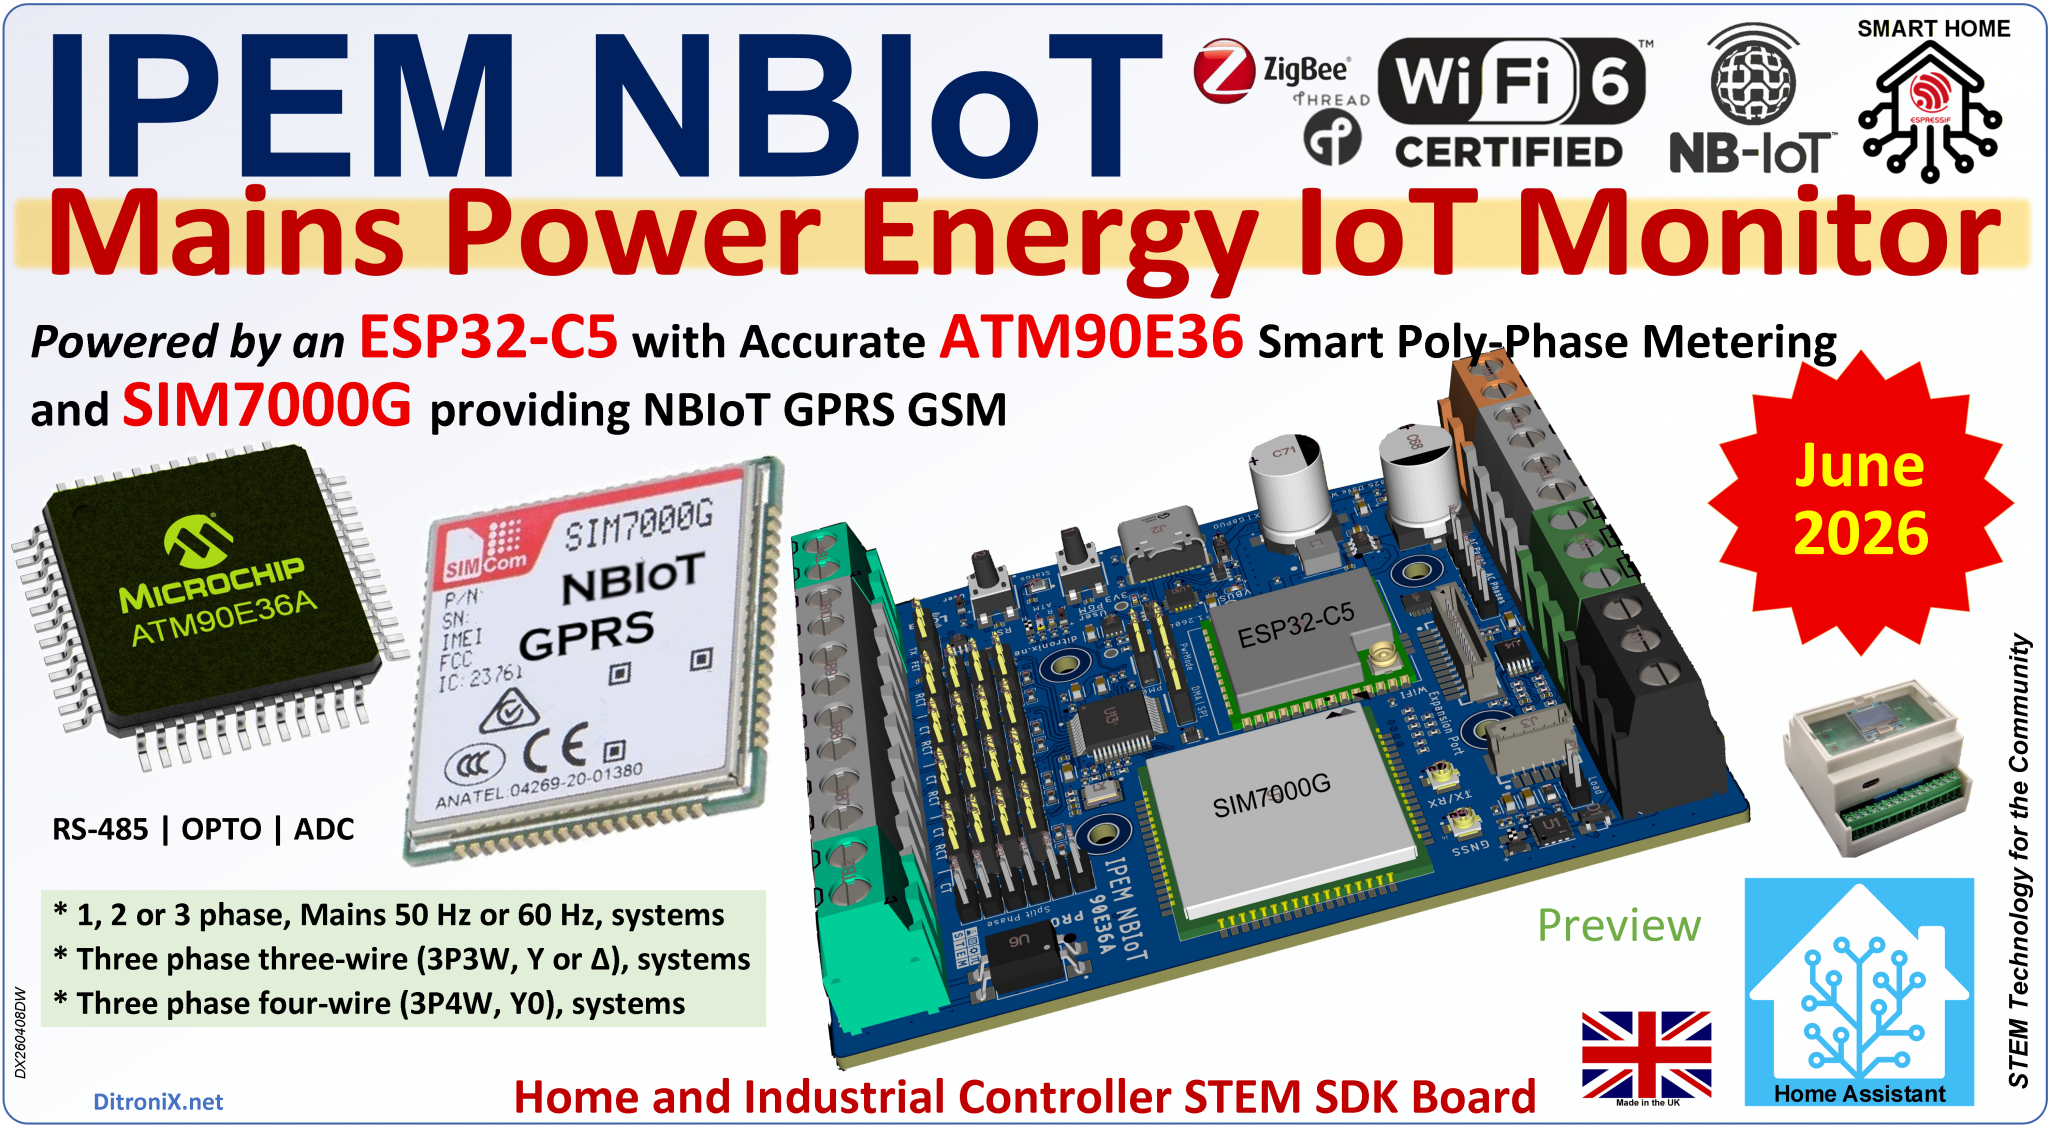
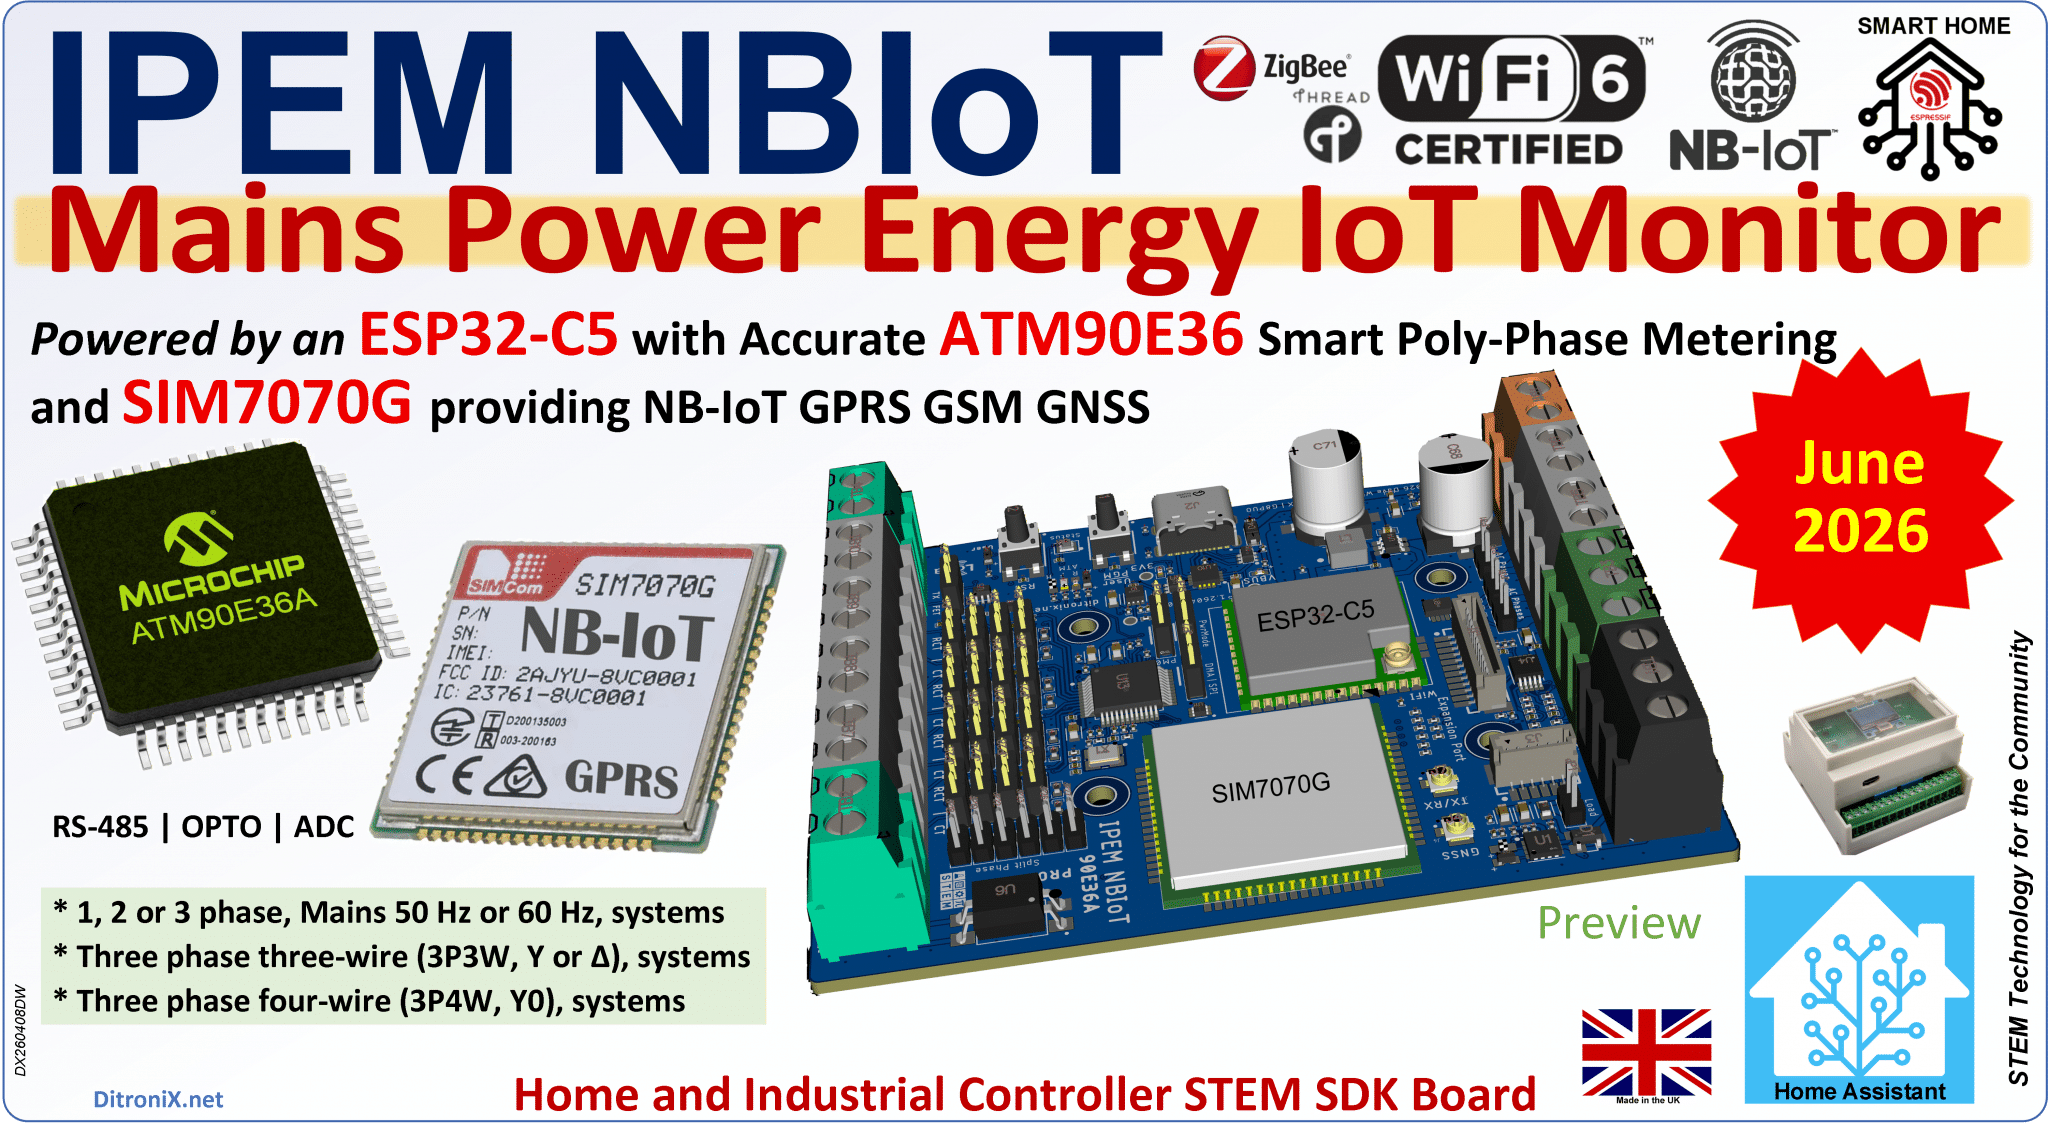
Updates

diff --git a/README.md b/README.md
@@ -1,21 +1,21 @@
 
-# IPEM NBIoT | ESP32C5 ATM90E36 SIM7000G GPRS IoT Mains Power Energy Monitor
+# IPEM NB-IoT | ESP32C5 ATM90E36 SIM7070G GPRS IoT Mains Power Energy Monitor
 
 **Supporting STEM Electronic Internet of Things & Home Automation Technology for Smart Energy Monitoring**
 
 Pre-Release Information
 
-[![DitroniX WiKi Pages](https://github.com/DitroniX/IPEM-NBIoT-ESP32C5-ATM90E36-SIM7000G-GPRS-IoT-Mains-Power-Energy-Monitor/blob/main/Datasheets%20and%20Information/GitHub%20WiKi.png?raw=true)](https://github.com/DitroniX/IPEM-NBIoT-ESP32C5-ATM90E36-SIM7000G-GPRS-IoT-Mains-Power-Energy-Monitor/wiki)
+[![DitroniX WiKi Pages](https://github.com/DitroniX/IPEM-NBIoT-ESP32C5-ATM90E36-SIM7070G-GPRS-IoT-Mains-Power-Energy-Monitor/blob/main/Datasheets%20and%20Information/GitHub%20WiKi.png?raw=true)](https://github.com/DitroniX/IPEM-NBIoT-ESP32C5-ATM90E36-SIM7070G-GPRS-IoT-Mains-Power-Energy-Monitor/wiki)
 
-[**For Latest Project Updates - Click Here**](https://github.com/DitroniX/IPEM-NBIoT-ESP32C5-ATM90E36-SIM7000G-GPRS-IoT-Mains-Power-Energy-Monitor?tab=readme-ov-file#updates)
+[**For Latest Project Updates - Click Here**](https://github.com/DitroniX/IPEM-NBIoT-ESP32C5-ATM90E36-SIM7070G-GPRS-IoT-Mains-Power-Energy-Monitor?tab=readme-ov-file#updates)
 
-![IPEM NBIoT Preview](https://github.com/DitroniX/IPEM-NBIoT-ESP32C5-ATM90E36-SIM7000G-GPRS-IoT-Mains-Power-Energy-Monitor/blob/main/Datasheets%20and%20Information/IPEM%20NBIoT-%20Overview.png)
+![IPEM NBIoT Preview](https://github.com/DitroniX/IPEM-NBIoT-ESP32C5-ATM90E36-SIM7070G-GPRS-IoT-Mains-Power-Energy-Monitor/blob/main/Datasheets%20and%20Information/IPEM%20NBIoT-%20Overview.png)
 
 ## Welcome to IPEM NB-IoT
 
 The new **IPEM NB-IoT** STEM board has been launched, with expected availability in June.
 
-**IPEM NB-IoT**  is a powerful ATM90E36 Smart Home and Industry Automation, [Mains Power Energy Monitor](https://github.com/DitroniX/IPEM-NBIoT-ESP32C5-ATM90E36-SIM7000G-GPRS-IoT-Mains-Power-Energy-Monitor/wiki/What-is-a-Power-Energy-Monitor%3F) Board, and Kit.
+**IPEM NB-IoT**  is a powerful ATM90E36 Smart Home and Industry Automation, [Mains Power Energy Monitor](https://github.com/DitroniX/IPEM-NBIoT-ESP32C5-ATM90E36-SIM7070G-GPRS-IoT-Mains-Power-Energy-Monitor/wiki/What-is-a-Power-Energy-Monitor%3F) Board, and Kit.
 
 ### Standalone or Integrated Remote
 
@@ -23,7 +23,7 @@ The new **IPEM NB-IoT** STEM board has been launched, with expected availability
 
 The **IPEM NB-IoT** is a 'standalone board', where its ESP32-C5, interfaces with ESPHome firmware (as an example).. If preferred, you could easily send MQTT messages.  As it is ESP based, it will just power up and work.  No waiting to boot up.
 
-![IPEM NBIoT Preview](https://github.com/DitroniX/IPEM-NBIoT-ESP32C5-ATM90E36-SIM7000G-GPRS-IoT-Mains-Power-Energy-Monitor/blob/main/Datasheets%20and%20Information/IPEM%20NBIoT-%20Overview.png)
+![IPEM NBIoT Preview](https://github.com/DitroniX/IPEM-NBIoT-ESP32C5-ATM90E36-SIM7070G-GPRS-IoT-Mains-Power-Energy-Monitor/blob/main/Datasheets%20and%20Information/IPEM%20NBIoT-%20Overview.png)
 
 **IPEM NB-IoT** runs locally, or via Home Assistant, Domoticz etc., or via an IoT remote service. 
 
@@ -41,7 +41,7 @@ Extending further, the built-in GPRS NB-IoT GSM radio opens up long range and fu
 
 ### How does the Power Energy Monitor Work?
 
-A power energy monitor is a device that safely samples the [AC Voltage, and Current flow](https://github.com/DitroniX/IPEM-NBIoT-ESP32C5-ATM90E36-SIM7000G-GPRS-IoT-Mains-Power-Energy-Monitor/wiki/What-is-a-Power-Energy-Monitor%3F), from one, or more, electrical phases, and from this, derives a range of accurate mains power measurements which can then be used for smart metering, or energy monitoring purposes.
+A power energy monitor is a device that safely samples the [AC Voltage, and Current flow](https://github.com/DitroniX/IPEM-NBIoT-ESP32C5-ATM90E36-SIM7070G-GPRS-IoT-Mains-Power-Energy-Monitor/wiki/What-is-a-Power-Energy-Monitor%3F), from one, or more, electrical phases, and from this, derives a range of accurate mains power measurements which can then be used for smart metering, or energy monitoring purposes.
 
 These individual measurements can then be extrapolated into a range of useful real-time data such as total RMS Power, Active, Re-Active Power, Harmonic Power, Power Factor, Phase Angles, Frequency, etc.
 
@@ -53,9 +53,9 @@ Flexible monitoring of both AC Voltage and AC Current is important for any insta
 
 The below links go into more detail of these options.
 
-[AC Voltage Monitoring](https://github.com/DitroniX/IPEM-NBIoT-ESP32C5-ATM90E36-SIM7000G-GPRS-IoT-Mains-Power-Energy-Monitor/wiki/AC-Mains-Voltage-Sense-Input)
+[AC Voltage Monitoring](https://github.com/DitroniX/IPEM-NBIoT-ESP32C5-ATM90E36-SIM7070G-GPRS-IoT-Mains-Power-Energy-Monitor/wiki/AC-Mains-Voltage-Sense-Input)
 
-[AC Current Monitoring](https://github.com/DitroniX/IPEM-NBIoT-ESP32C5-ATM90E36-SIM7000G-GPRS-IoT-Mains-Power-Energy-Monitor/wiki/AC-Current-and-Power-Monitoring)
+[AC Current Monitoring](https://github.com/DitroniX/IPEM-NBIoT-ESP32C5-ATM90E36-SIM7070G-GPRS-IoT-Mains-Power-Energy-Monitor/wiki/AC-Current-and-Power-Monitoring)
 
 
 ### IPEM Continuity
@@ -64,7 +64,7 @@ Following in the footsteps of the original popular [IPEM boards](https://github.
 
 **IPEM NB-IoT** is a self-contained ESP32-C5 based IoT monitoring board. Ideal for local, or remoting, monitoring requirements.
 
-**IPEM NB-IoT** connectivity allows Wi-Fi connections to 2.4GHz or 5GHz, with Bluetooth, Thread and Zigbee.  In addition, you may also use the inbuilt NB-IoT GPRS SIM7000G.
+**IPEM NB-IoT** connectivity allows Wi-Fi connections to 2.4GHz or 5GHz, with Bluetooth, Thread and Zigbee.  In addition, you may also use the inbuilt NB-IoT GPRS SIM7070G.
 
 ## [Compare Mains Power IoT Energy Monitors](https://github.com/DitroniX/IPEM-SIX-ESP32C5-ATM90E32-IoT-Mains-Power-Energy-Monitor/wiki/Compare-Mains-Power-IoT-Energy-Monitors)
 
@@ -210,4 +210,4 @@ Electronics Engineer | Software Developer | R&D Support | RF Engineering | Produ
 
 
 
-Tags: 	1-3 Phase, 2.4GHz, 3P3W, 3P4W, 5-20V DC Input, 5GHz, NB-IoT, NBIoT, 90E36, ADC, Agriculture, atm90e36, Bluetooth, Board, Delta, Digital Temperature Sensor, DIN Enclosure, Display, DMX, DMX512, Educational, EEPROM, Energy Monitor, ESP32-C5, ESP32C5, Expansion Interface, Farming, Galvanic Isolated Output, Home, Home Assistant, Housing, I2C Interface, Industrial, Industry, Inputs, IoT, ipem, IPEM NB-IoT, JST 12W 1mm, JST 6W 1mm, JST SH, GPRS, Mains Monitoring, MicroSD, OLED, Opto Isolator, Poly-Phase Metering, Remote Monitoring, RGB WS2812, RS-485, RS485, RTC, SDK, Smart Home, Smart Industrial, Solar, Solar Farm, SPI Interface, Star, STEM, SIM7000G, Tactile Button, Thread, TMP102, Type C, UART, User Panel, Wi-Fi, Wi-Fi 6, WS2811, WS2812, Zigbee
+Tags: 	1-3 Phase, 2.4GHz, 3P3W, 3P4W, 5-20V DC Input, 5GHz, NB-IoT, NBIoT, 90E36, ADC, Agriculture, atm90e36, Bluetooth, Board, Delta, Digital Temperature Sensor, DIN Enclosure, Display, DMX, DMX512, Educational, EEPROM, Energy Monitor, ESP32-C5, ESP32C5, Expansion Interface, Farming, Galvanic Isolated Output, Home, Home Assistant, Housing, I2C Interface, Industrial, Industry, Inputs, IoT, ipem, IPEM NB-IoT, JST 12W 1mm, JST 6W 1mm, JST SH, GPRS, Mains Monitoring, MicroSD, OLED, Opto Isolator, Poly-Phase Metering, Remote Monitoring, RGB WS2812, RS-485, RS485, RTC, SDK, Smart Home, Smart Industrial, Solar, Solar Farm, SPI Interface, Star, STEM, SIM7070G, Tactile Button, Thread, TMP102, Type C, UART, User Panel, Wi-Fi, Wi-Fi 6, WS2811, WS2812, Zigbee

diff --git a/Code/README.md b/Code/README.md
@@ -1,4 +1,4 @@
-# IPEM NBIoT | ESP32C5 ATM90E36 SIM7000G GPRS IoT Mains Power Energy Monitor
+# IPEM NB-IoT | ESP32C5 ATM90E36 SIM7070G GPRS IoT Mains Power Energy Monitor
 
 ------------
 

diff --git a/Code/Arduino/README.md b/Code/Arduino/README.md
@@ -1,4 +1,4 @@
-# IPEM NBIoT | ESP32C5 ATM90E36 SIM7000G GPRS IoT Mains Power Energy Monitor
+# IPEM NBIoT | ESP32C5 ATM90E36 SIM7070G GPRS IoT Mains Power Energy Monitor
 
 ------------
 

diff --git a/Code/PlatformIO/README.md b/Code/PlatformIO/README.md
@@ -1,4 +1,4 @@
-# IPEM NBIoT | ESP32C5 ATM90E36 SIM7000G GPRS IoT Mains Power Energy Monitor
+# IPEM NBIoT | ESP32C5 ATM90E36 SIM7070G GPRS IoT Mains Power Energy Monitor
 
 ------------
 

diff --git a/Datasheets and Information/README.md b/Datasheets and Information/README.md
@@ -1,4 +1,4 @@
-# IPEM NBIoT | ESP32C5 ATM90E36 SIM7000G GPRS IoT Mains Power Energy Monitor
+# IPEM NBIoT | ESP32C5 ATM90E36 SIM7070G GPRS IoT Mains Power Energy Monitor
 
 ------------
 
